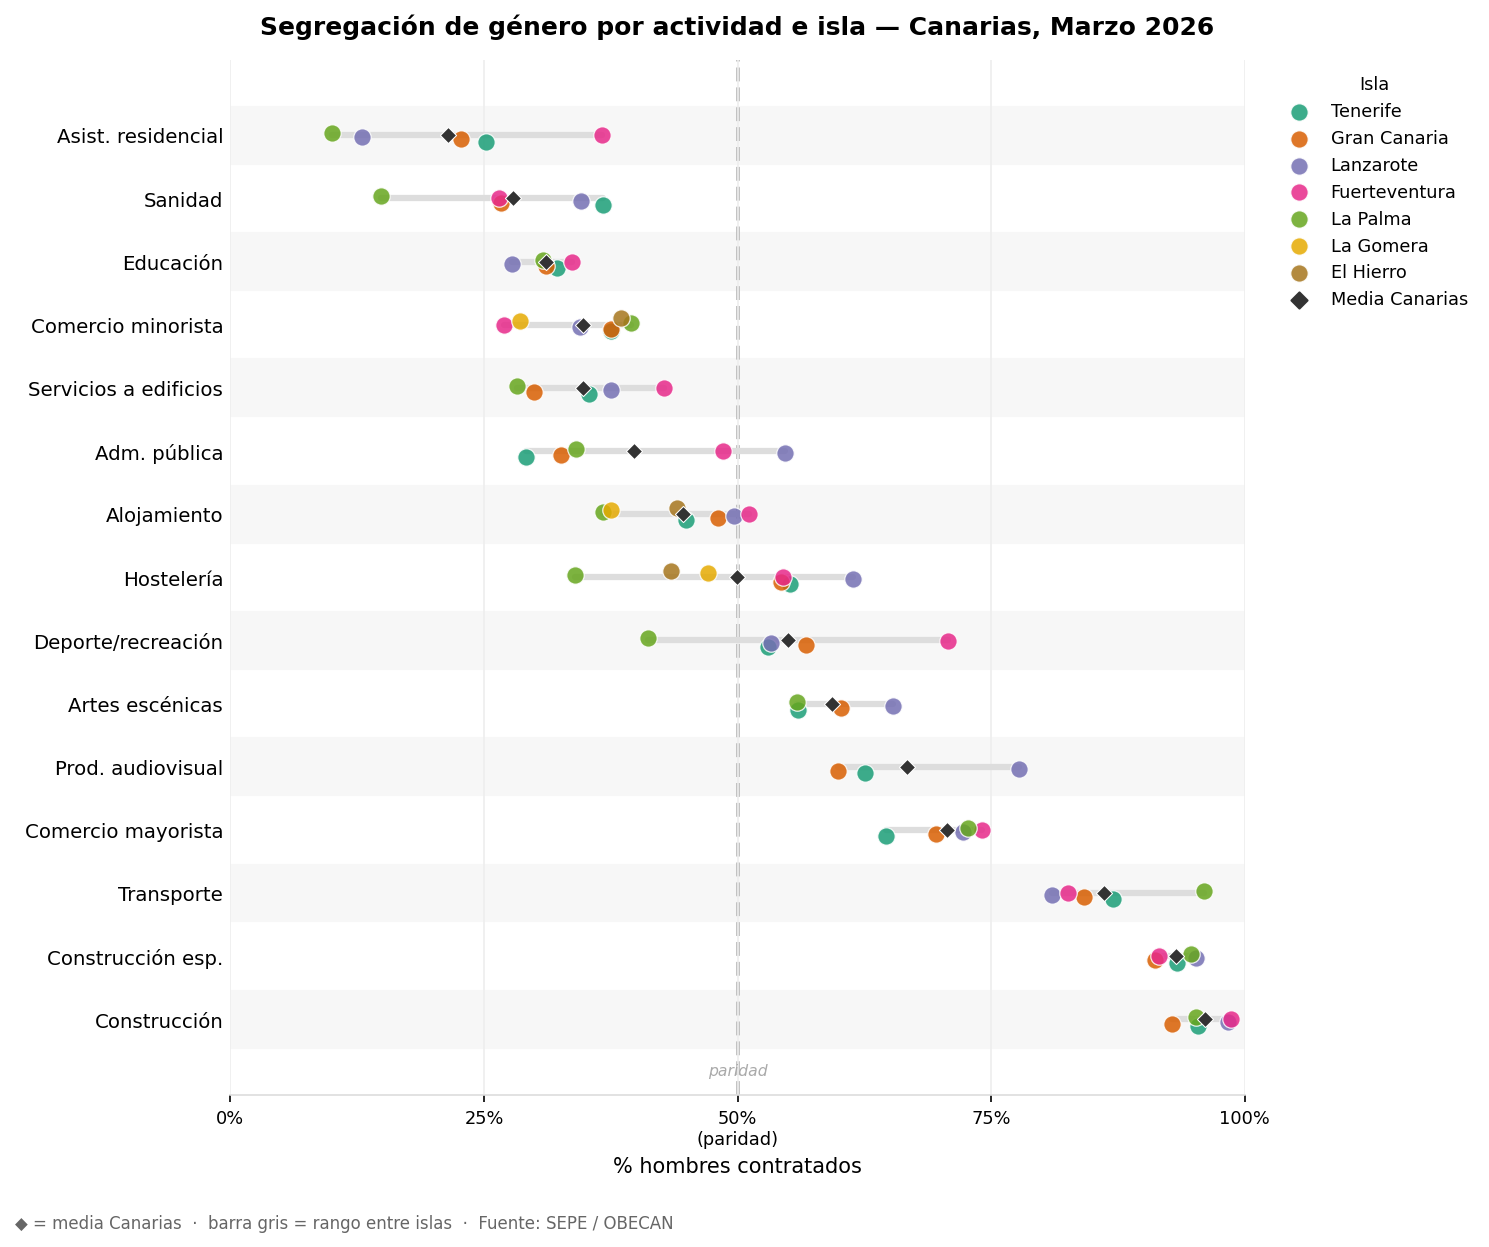
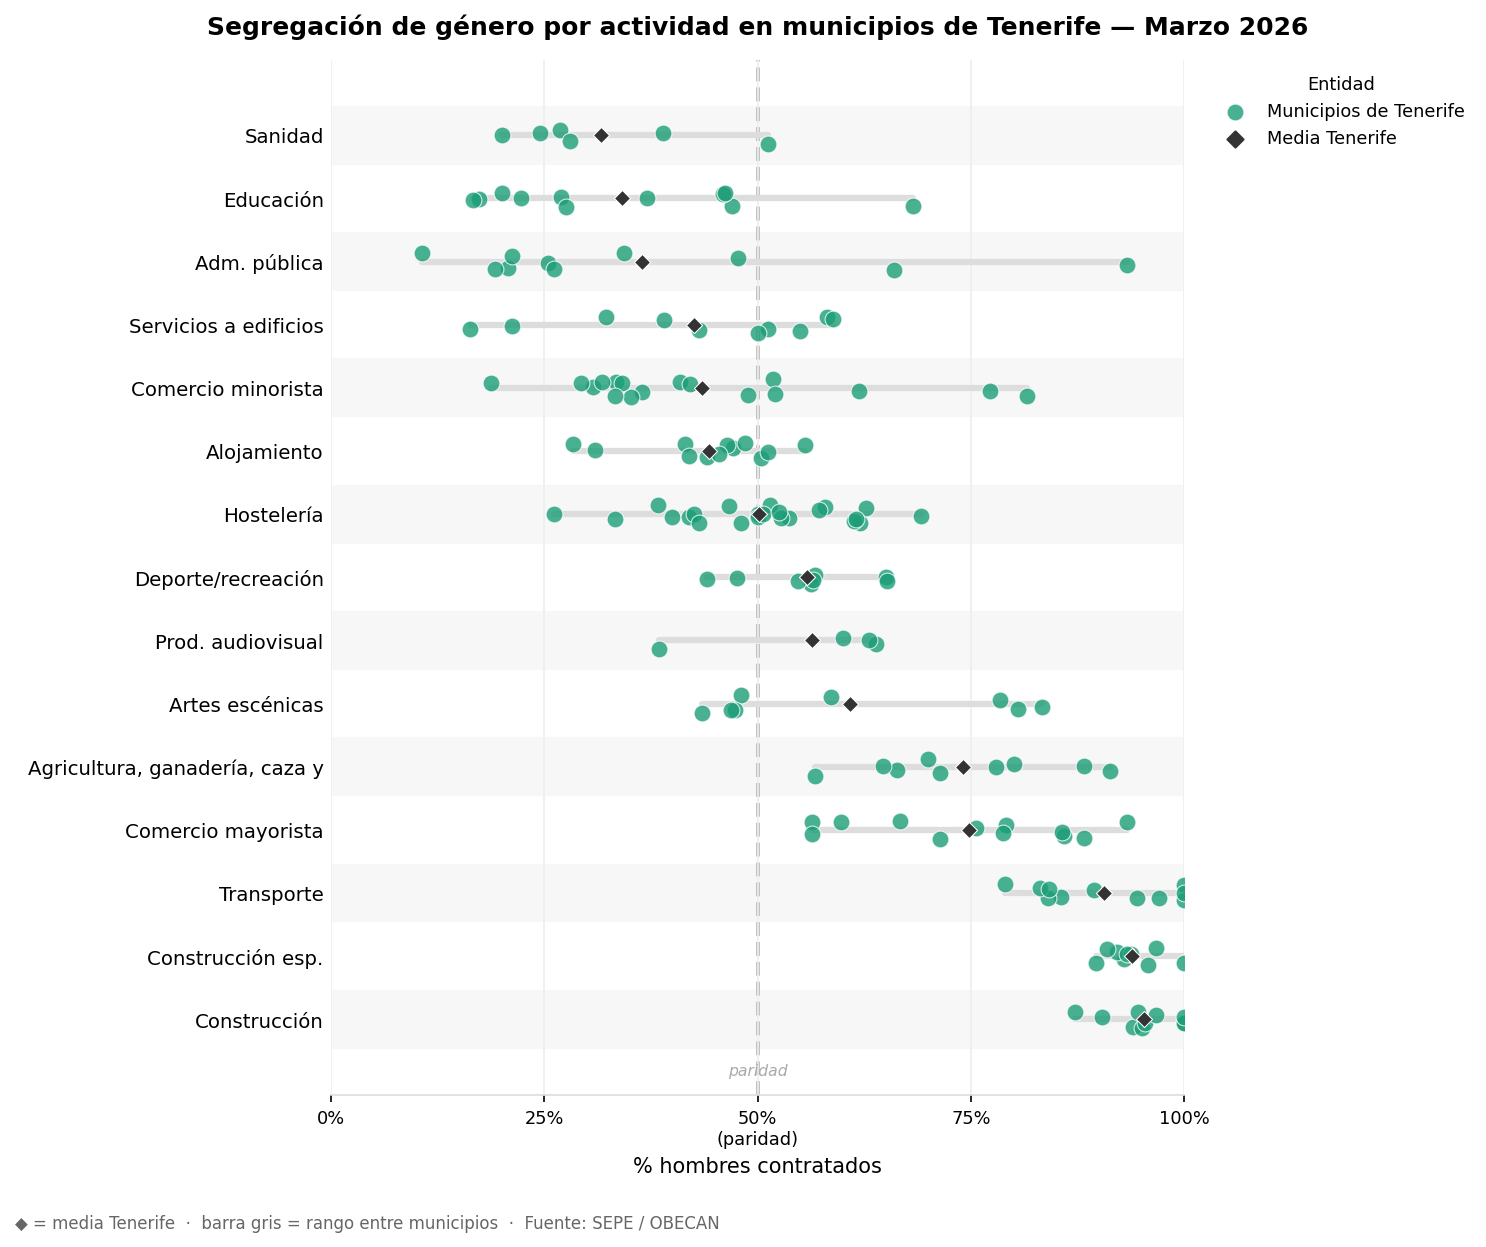
feat: habilitar dotplot municipal de segregacion sectorial por isla y normalizar municipios

diff --git a/assets_proyecto5/plots_assets.py b/assets_proyecto5/plots_assets.py
@@ -190,7 +190,12 @@ def cargar_gdf_municipios(año: int, nivel: str = "municipio", logger=None) -> g
             logger.warning(f"GeoJSON no encontrado: {path}")
         return None
     gdf = gpd.read_file(path).set_crs("EPSG:4326", allow_override=True)
-    gdf["municipio"] = gdf["etiqueta"].str.extract(r"- (.+)$")
+    
+    # Extraer y normalizar nombres de municipio (resuelve desajustes de mayúsculas/minúsculas)
+    gdf["municipio"] = gdf["etiqueta"].str.extract(r"- (.+)$")[0]
+    gdf["municipio"] = gdf["municipio"].str.replace(" de La ", " de la ", regex=False)
+    gdf["municipio"] = gdf["municipio"].str.replace(" de la Laguna", " de La Laguna", regex=False)
+    
     if nivel == "seccion":
         return gdf[["municipio", "geometry"]]
     return gdf.dissolve(by="municipio", as_index=False)[["municipio", "geometry"]]
@@ -598,13 +603,13 @@ def plot_gini_evolucion_islas(context: AssetExecutionContext) -> None:
 @asset(deps=[preprocesar_datos_p5], group_name="viz_estructura_laboral")
 def plot_segregacion_sectorial(context: AssetExecutionContext) -> None:
     """
-    Dot plot de Cleveland: ratio H/(H+M) por actividad e isla.
-    Historia: ¿cómo varía la segregación de cada actividad entre islas?
+    Dot plot de Cleveland: ratio H/(H+M) por actividad e isla (o por municipio para una isla).
+    Historia: ¿cómo varía la segregación de cada actividad entre islas/municipios?
 
     Gramática de gráficos:
       - Canal principal: posición en eje X común (el más preciso, Cleveland 1984)
       - Canal secundario: color por isla (identidad, no magnitud)
-      - Facet por actividad: comparación entre islas dentro de cada panel
+      - Facet por actividad: comparación entre islas/municipios dentro de cada panel
       - Línea de referencia en 0.5 (paridad) como figura; puntos como fondo
 
     Gestalt:
@@ -613,10 +618,11 @@ def plot_segregacion_sectorial(context: AssetExecutionContext) -> None:
       - Similitud: color por isla coherente con el resto del proyecto
       - Figura/Fondo: línea gris clara de fondo, puntos de color en primer plano
     """
-    cfg   = get_plot_config().get("segregacion_sectorial", {})
-    TOP_N = cfg.get("top_n", 15)
-    AÑO   = cfg.get("ano", 2026)
-    MES   = cfg.get("mes", 3)
+    cfg      = get_plot_config().get("segregacion_sectorial", {})
+    TOP_N    = cfg.get("top_n", 15)
+    AÑO      = cfg.get("ano", 2026)
+    MES      = cfg.get("mes", 3)
+    isla_cfg = cfg.get("isla", "Todas")
 
     df = _cargar_contratos(os.path.join(config.TARGET_DIR, config.DATA_P5_DIR), AÑO, MES)
     if df is None:
@@ -627,6 +633,12 @@ def plot_segregacion_sectorial(context: AssetExecutionContext) -> None:
     df["Contratos"] = df["c"]
     for col in df.select_dtypes(include="object").columns:
         df[col] = df[col].str.strip()
+
+    if isla_cfg != "Todas":
+        df = df[df["isla"].str.upper() == isla_cfg.upper()]
+        if df.empty:
+            context.log.warning(f"No hay datos de contratos para la isla {isla_cfg} en {AÑO}-{MES:02d}.")
+            return
 
     top_act = (df.groupby("Actividad económica")["Contratos"]
                .sum().nlargest(TOP_N).index.tolist())
@@ -659,12 +671,15 @@ def plot_segregacion_sectorial(context: AssetExecutionContext) -> None:
     COLORES_ISLAS = get_colores_isla()
 
     # ── Preparar datos ────────────────────────────────────────────────────────
+    entidad_col = "Municipio" if isla_cfg != "Todas" else "isla"
     pivot = (
         df[df["Actividad económica"].isin(top_act)]
-        .groupby(["Actividad económica", "isla", "sexo"])["Contratos"]
+        .groupby(["Actividad económica", entidad_col, "sexo"])["Contratos"]
         .sum().unstack("sexo").reset_index()
     )
     pivot.columns.name = None
+    pivot = pivot.rename(columns={entidad_col: "entidad"})
+
     for col in ["Hombres", "Mujeres"]:
         if col not in pivot.columns:
             pivot[col] = 0
@@ -677,7 +692,10 @@ def plot_segregacion_sectorial(context: AssetExecutionContext) -> None:
     pivot["ratio_hm"]        = pivot["Hombres"] / (pivot["Hombres"] + pivot["Mujeres"])
     pivot["actividad_short"] = pivot["Actividad económica"].map(ABREV).fillna(
         pivot["Actividad económica"].str[:30])
-    pivot["isla"] = pivot["isla"].str.strip().str.title()
+    
+    pivot["entidad"] = pivot["entidad"].str.strip()
+    if isla_cfg == "Todas":
+        pivot["entidad"] = pivot["entidad"].str.title()
 
     # Ordenar actividades por ratio medio (más feminizadas arriba,
     # más masculinizadas abajo) — Gestalt: orden emergente sin leyenda
@@ -707,7 +725,7 @@ def plot_segregacion_sectorial(context: AssetExecutionContext) -> None:
     ax.text(0.5, -0.7, "paridad", ha="center", va="top",
             fontsize=7.5, color="#aaaaaa", style="italic")
 
-    # Segmento horizontal del rango inter-isla por actividad (dispersión visual)
+    # Segmento horizontal del rango inter-entidades por actividad (dispersión visual)
     for act in orden_act:
         sub = pivot[pivot["actividad_short"] == act]["ratio_hm"]
         if len(sub) >= 2:
@@ -715,28 +733,46 @@ def plot_segregacion_sectorial(context: AssetExecutionContext) -> None:
             ax.plot([sub.min(), sub.max()], [y, y],
                     color="#dddddd", lw=3, solid_capstyle="round", zorder=2)
 
-    # Jitter vertical determinista por isla para evitar solapamientos en Y
-    ISLAS_LIST = list(COLORES_ISLAS.keys())
-    def get_island_jitter(isla_name):
-        try:
-            idx = ISLAS_LIST.index(isla_name)
-            # Distribuye uniformemente de -0.1 a 0.1
-            return -0.1 + idx * 0.033
-        except ValueError:
-            return 0.0
+    # Puntos por entidad (isla o municipio)
+    if isla_cfg != "Todas":
+        # Para municipios de una isla concreta:
+        # Usamos el color de esa isla
+        color_isla = COLORES_ISLAS.get(isla_cfg, "#1B9E77") # fallback a verde (Tenerife)
+        
+        np.random.seed(42)
+        # Determinamos las posiciones Y base
+        ys_base = np.array([orden_act.index(a) for a in pivot["actividad_short"]])
+        # Añadimos un jitter aleatorio determinista
+        ys_jittered = ys_base + np.random.uniform(-0.15, 0.15, size=len(pivot))
+        
+        ax.scatter(pivot["ratio_hm"], ys_jittered,
+                   color=color_isla, s=65, zorder=4,
+                   edgecolors="white", linewidths=0.5,
+                   alpha=0.8,
+                   label=f"Municipios de {isla_cfg}")
+    else:
+        # Jitter vertical determinista por isla para evitar solapamientos en Y
+        ISLAS_LIST = list(COLORES_ISLAS.keys())
+        def get_island_jitter(isla_name):
+            try:
+                idx = ISLAS_LIST.index(isla_name)
+                # Distribuye uniformemente de -0.1 a 0.1
+                return -0.1 + idx * 0.033
+            except ValueError:
+                return 0.0
 
-    # Puntos por isla
-    for isla, color in COLORES_ISLAS.items():
-        sub = pivot[pivot["isla"] == isla].copy()
-        if sub.empty:
-            continue
-        jitter = get_island_jitter(isla)
-        ys = [orden_act.index(a) + jitter for a in sub["actividad_short"]]
-        ax.scatter(sub["ratio_hm"], ys,
-                   color=color, s=70, zorder=4,
-                   edgecolors="white", linewidths=0.6,
-                   alpha=0.85,  # Transparencia leve para discernir solapamientos
-                   label=isla)
+        # Puntos por isla
+        for isla, color in COLORES_ISLAS.items():
+            sub = pivot[pivot["entidad"] == isla].copy()
+            if sub.empty:
+                continue
+            jitter = get_island_jitter(isla)
+            ys = [orden_act.index(a) + jitter for a in sub["actividad_short"]]
+            ax.scatter(sub["ratio_hm"], ys,
+                       color=color, s=70, zorder=4,
+                       edgecolors="white", linewidths=0.6,
+                       alpha=0.85,  # Transparencia leve para discernir solapamientos
+                       label=isla)
 
     # Punto de media por actividad (triángulo negro) como referencia agregada
     for act in orden_act:
@@ -760,13 +796,14 @@ def plot_segregacion_sectorial(context: AssetExecutionContext) -> None:
     ax.spines["bottom"].set_color("#dddddd")
     ax.tick_params(axis="y", length=0)
 
-    # Leyenda islas + símbolo de media
+    # Leyenda entidad + símbolo de media
     handles, labels = ax.get_legend_handles_labels()
+    media_label = f"Media {isla_cfg}" if isla_cfg != "Todas" else "Media Canarias"
     media_handle = plt.scatter([], [], marker="D", s=30, color="#333333",
-                               label="Media Canarias")
+                               label=media_label)
     handles.append(media_handle)
     ax.legend(handles=handles, loc="upper left", bbox_to_anchor=(1.02, 1.0),
-              fontsize=8.5, frameon=False, title="Isla", title_fontsize=8.5)
+              fontsize=8.5, frameon=False, title="Entidad" if isla_cfg != "Todas" else "Isla", title_fontsize=8.5)
 
     mes_names = {
         1: "Enero", 2: "Febrero", 3: "Marzo", 4: "Abril", 5: "Mayo", 6: "Junio",
@@ -774,14 +811,15 @@ def plot_segregacion_sectorial(context: AssetExecutionContext) -> None:
     }
     title_date = f"{mes_names.get(MES, f'{MES:02d}')} {AÑO}"
 
-    ax.set_title(
-        f"Segregación de género por actividad e isla — Canarias, {title_date}",
-        fontsize=12, fontweight="bold", pad=12)
-    fig.text(
-        0.01, 0.0,
-        "◆ = media Canarias  ·  barra gris = rango entre islas  "
-        "·  Fuente: SEPE / OBECAN",
-        fontsize=8, color="#666666")
+    if isla_cfg != "Todas":
+        title_text = f"Segregación de género por actividad en municipios de {isla_cfg} — {title_date}"
+        caption_text = f"◆ = media {isla_cfg}  ·  barra gris = rango entre municipios  ·  Fuente: SEPE / OBECAN"
+    else:
+        title_text = f"Segregación de género por actividad e isla — Canarias, {title_date}"
+        caption_text = "◆ = media Canarias  ·  barra gris = rango entre islas  ·  Fuente: SEPE / OBECAN"
+
+    ax.set_title(title_text, fontsize=12, fontweight="bold", pad=12)
+    fig.text(0.01, 0.0, caption_text, fontsize=8, color="#666666")
 
     plt.tight_layout(rect=[0, 0.02, 1, 1])
     out = os.path.join(get_plot_dir(), "segregacion_sectorial_dotplot.png")

diff --git a/assets_proyecto5/checks_p5.py b/assets_proyecto5/checks_p5.py
@@ -1345,22 +1345,23 @@ def check_datos_historico_contratos(context):
 @asset_check(
     asset=plot_segregacion_sectorial,
     description=(
-        "Verifica que contratos_202512.csv tiene las 7 islas, ambos sexos, "
-        "y actividades con masa suficiente para el Cleveland dot plot."
+        "Verifica que el CSV de contratos tiene los datos necesarios, con islas/municipios y "
+        "ambos sexos, y actividades con masa suficiente para el Cleveland dot plot."
     ),
 )
 def check_datos_segregacion_sectorial(context):
     """
     Gestalt — Similitud: color coherente por isla.
-    Gestalt — Proximidad: puntos agrupados por actividad.
-    Cierre/Masa: requiere un mínimo de 30 contratos por celda (isla-actividad) para ser representativo.
+    Gestalt — Proximidad: puntos agrupados por actividad/municipio.
+    Cierre/Masa: requiere un mínimo de contratos por celda para ser representativo.
     """
     passed   = True
     report_md = "### Check: segregacion_sectorial_dotplot\n\n"
 
-    cfg = get_plot_config().get("segregacion_sectorial", {})
-    AÑO = cfg.get("ano", 2025)
-    MES = cfg.get("mes", 12)
+    cfg      = get_plot_config().get("segregacion_sectorial", {})
+    AÑO      = cfg.get("ano", 2026)
+    MES      = cfg.get("mes", 3)
+    isla_cfg = cfg.get("isla", "Todas")
     
     df = _cargar_contratos(os.path.join(config.TARGET_DIR, config.DATA_P5_DIR), AÑO, MES)
     if df is None:
@@ -1375,23 +1376,43 @@ def check_datos_segregacion_sectorial(context):
     passed = passed and ok
     report_md += f"- Ambos sexos: {'🟢' if ok else '🔴'}\n"
 
-    ISLAS_ESPERADAS = {"EL HIERRO","LA GOMERA","LA PALMA","TENERIFE",
-                       "GRAN CANARIA","LANZAROTE","FUERTEVENTURA"}
     islas_datos = set(df["isla"].dropna().str.upper().unique())
-    faltantes   = ISLAS_ESPERADAS - islas_datos
-    ok = len(faltantes) == 0
-    passed = passed and ok
-    report_md += f"- 7 islas presentes: {'🟢' if ok else '🔴'} (faltan: {faltantes or '–'})\n"
-
-    cfg   = get_plot_config().get("segregacion_sectorial", {})
-    TOP_N = cfg.get("top_n", 15)
-    top_act = (df.groupby("Actividad económica")["Contratos"]
-               .sum().nlargest(TOP_N).index.tolist())
     
-    pivot = (df[df["Actividad económica"].isin(top_act)]
-             .groupby(["Actividad económica","isla","sexo"])["Contratos"]
-             .sum().unstack("sexo").fillna(0))
+    if isla_cfg != "Todas":
+        # Verificar que la isla elegida tiene datos
+        ok = isla_cfg.upper() in islas_datos
+        passed = passed and ok
+        report_md += f"- Isla `{isla_cfg}` presente en datos: {'🟢' if ok else '🔴'}\n"
+    else:
+        # Verificar que las 7 islas están presentes
+        ISLAS_ESPERADAS = {"EL HIERRO","LA GOMERA","LA PALMA","TENERIFE",
+                           "GRAN CANARIA","LANZAROTE","FUERTEVENTURA"}
+        faltantes = ISLAS_ESPERADAS - islas_datos
+        ok = len(faltantes) == 0
+        passed = passed and ok
+        report_md += f"- 7 islas presentes: {'🟢' if ok else '🔴'} (faltan: {faltantes or '–'})\n"
+
+    TOP_N = cfg.get("top_n", 15)
+    
+    if isla_cfg != "Todas":
+        df_filtered = df[df["isla"].str.upper() == isla_cfg.upper()].copy()
+        top_act = (df_filtered.groupby("Actividad económica")["Contratos"]
+                   .sum().nlargest(TOP_N).index.tolist())
+        pivot = (df_filtered[df_filtered["Actividad económica"].isin(top_act)]
+                 .groupby(["Actividad económica", "Municipio", "sexo"])["Contratos"]
+                 .sum().unstack("sexo").fillna(0))
+    else:
+        df_filtered = df.copy()
+        top_act = (df_filtered.groupby("Actividad económica")["Contratos"]
+                   .sum().nlargest(TOP_N).index.tolist())
+        pivot = (df_filtered[df_filtered["Actividad económica"].isin(top_act)]
+                 .groupby(["Actividad económica", "isla", "sexo"])["Contratos"]
+                 .sum().unstack("sexo").fillna(0))
              
+    for col in ["Hombres", "Mujeres"]:
+        if col not in pivot.columns:
+            pivot[col] = 0
+            
     pivot["total"] = pivot.get("Hombres",0) + pivot.get("Mujeres",0)
     MIN_C = cfg.get("min_contratos", 15)
     celdas_validas = int((pivot["total"] >= MIN_C).sum())
